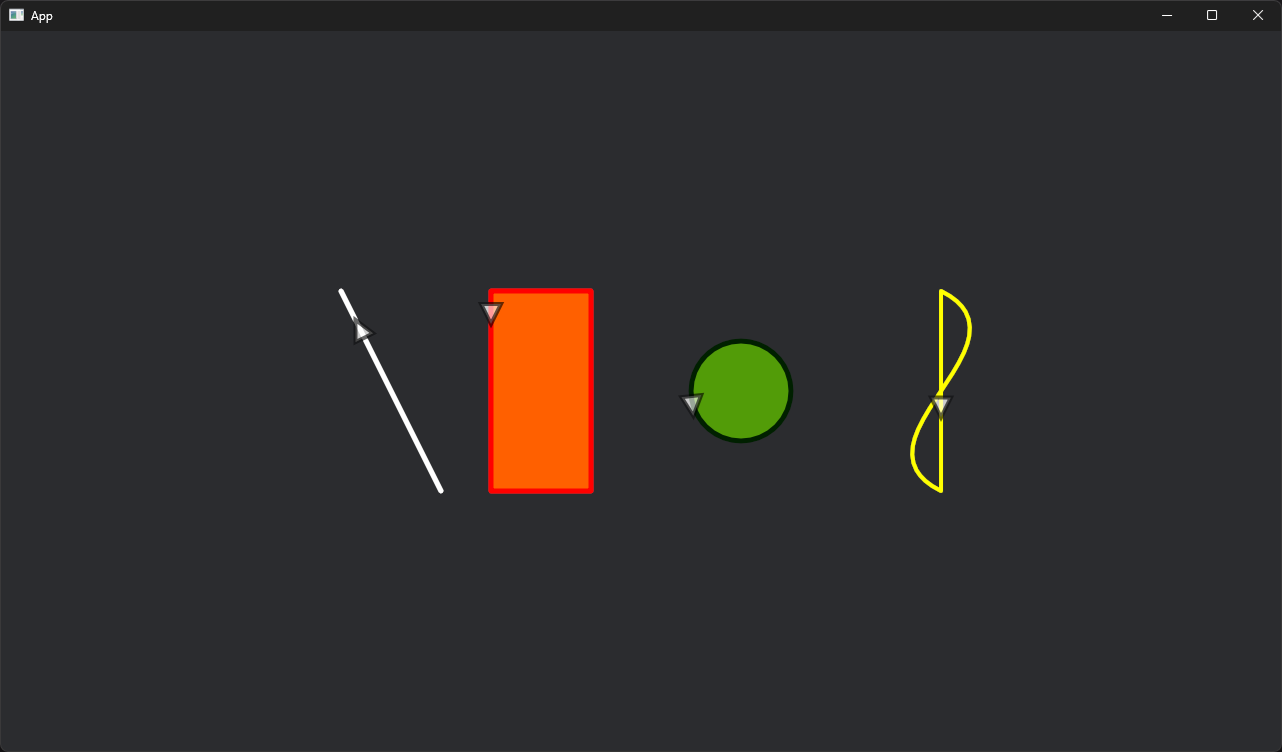
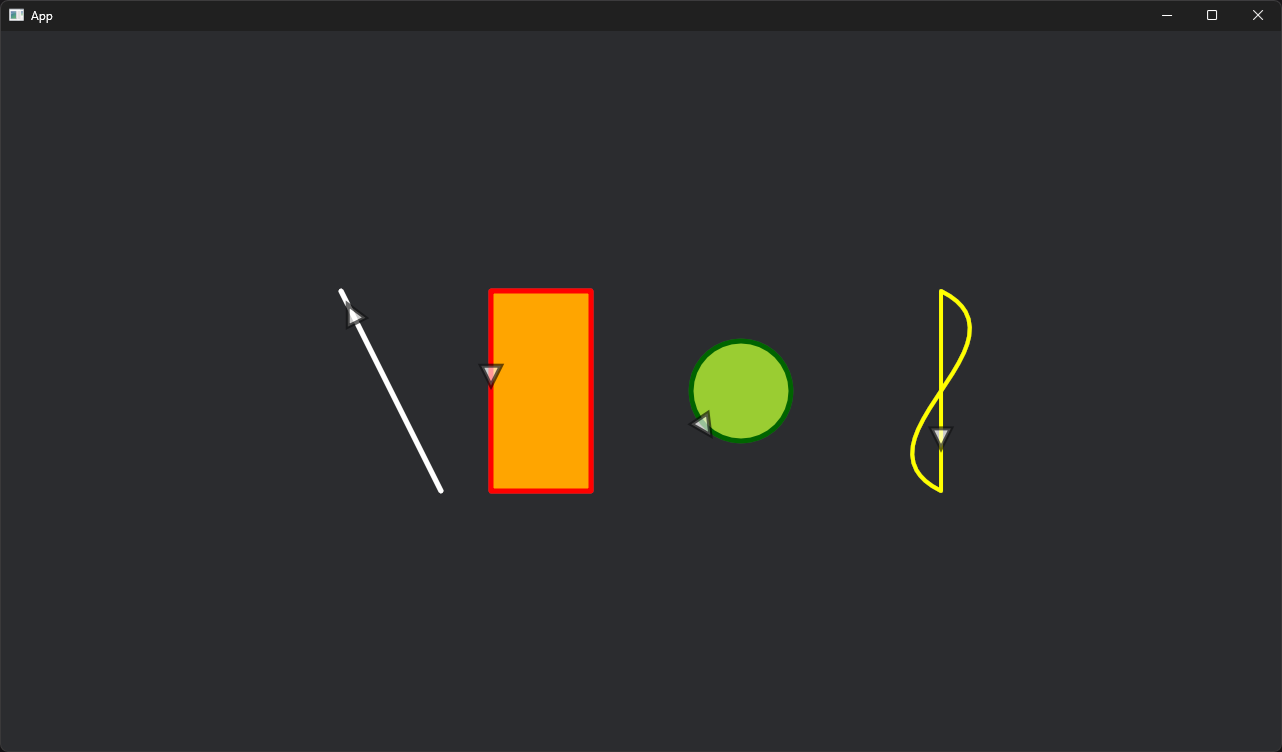
fix: wrong color conversion

diff --git a/src/brush.rs b/src/brush.rs
@@ -19,7 +19,7 @@ impl Brush {
     }
 
     pub fn from_color(color: Color) -> Self {
-        let color = color.to_linear();
+        let color = color.to_srgba();
         Self {
             value: peniko::Brush::Solid(peniko::Color::rgba(
                 color.red as f64,
